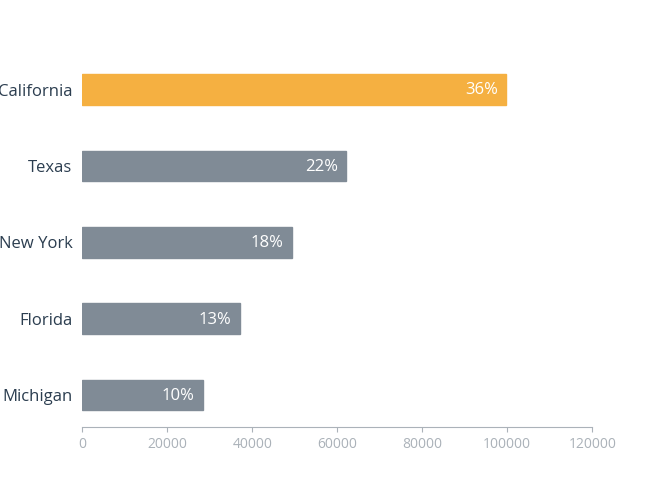
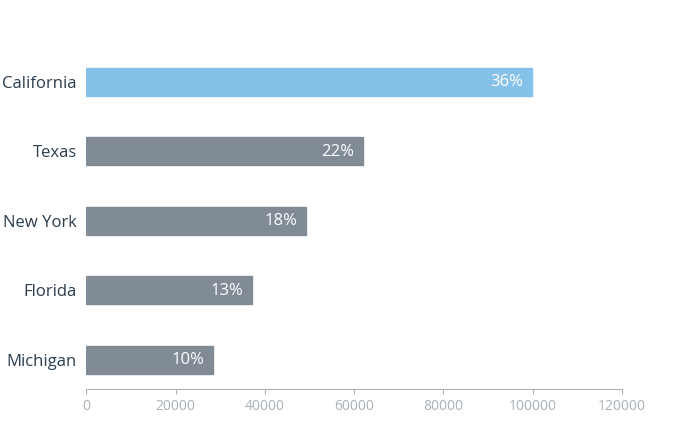
fixed a problem with the example images

diff --git a/explore.py b/explore.py
@@ -85,7 +85,7 @@ fig, ax = hplt.create_plot()
 #hplt.barh(labels, values, highlight='California', bar_labels=values)
 #hplt.show()
 
-hplt.barh(labels, values, highlight='California', bar_labels='%', bar_labels_pos='in')
+hplt.barh(labels, values, color='secondary', highlight='California', bar_labels='%', bar_labels_pos='in')
 hplt.show()
 
 #2d example
